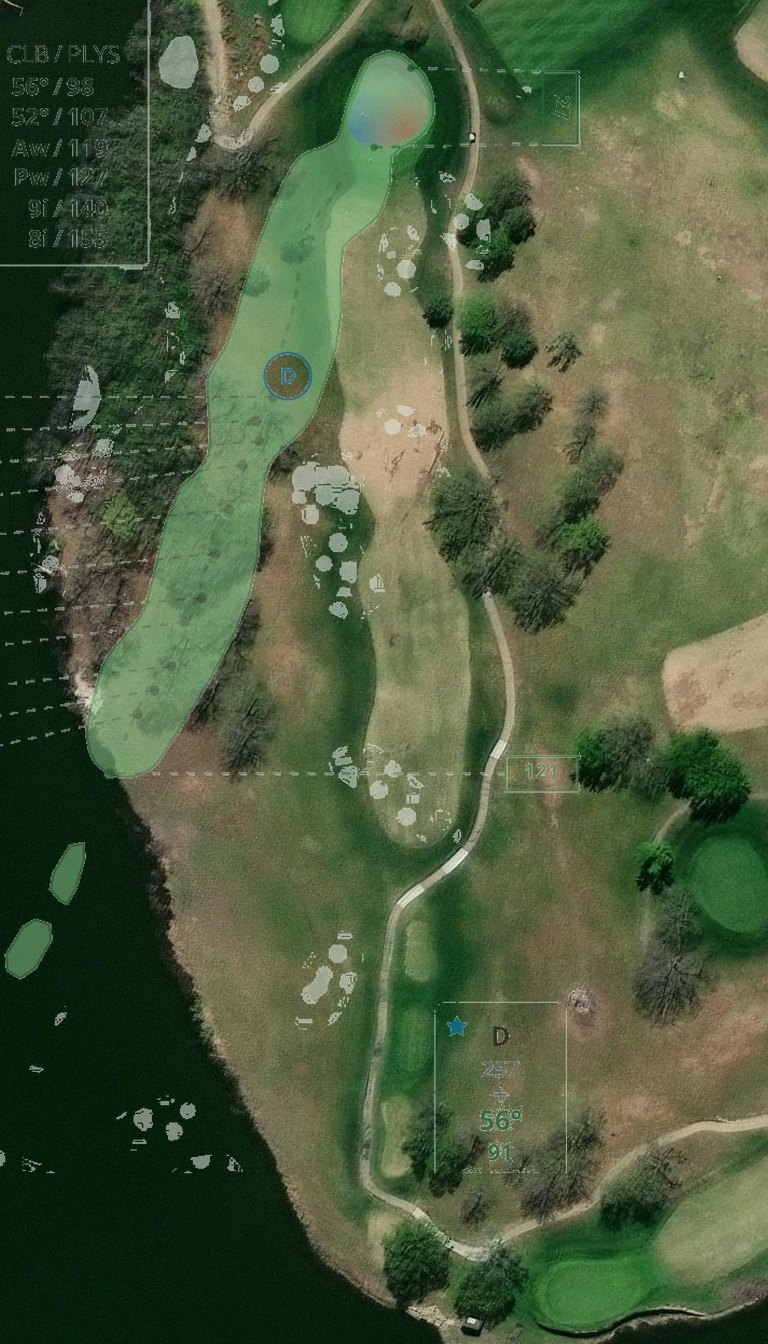
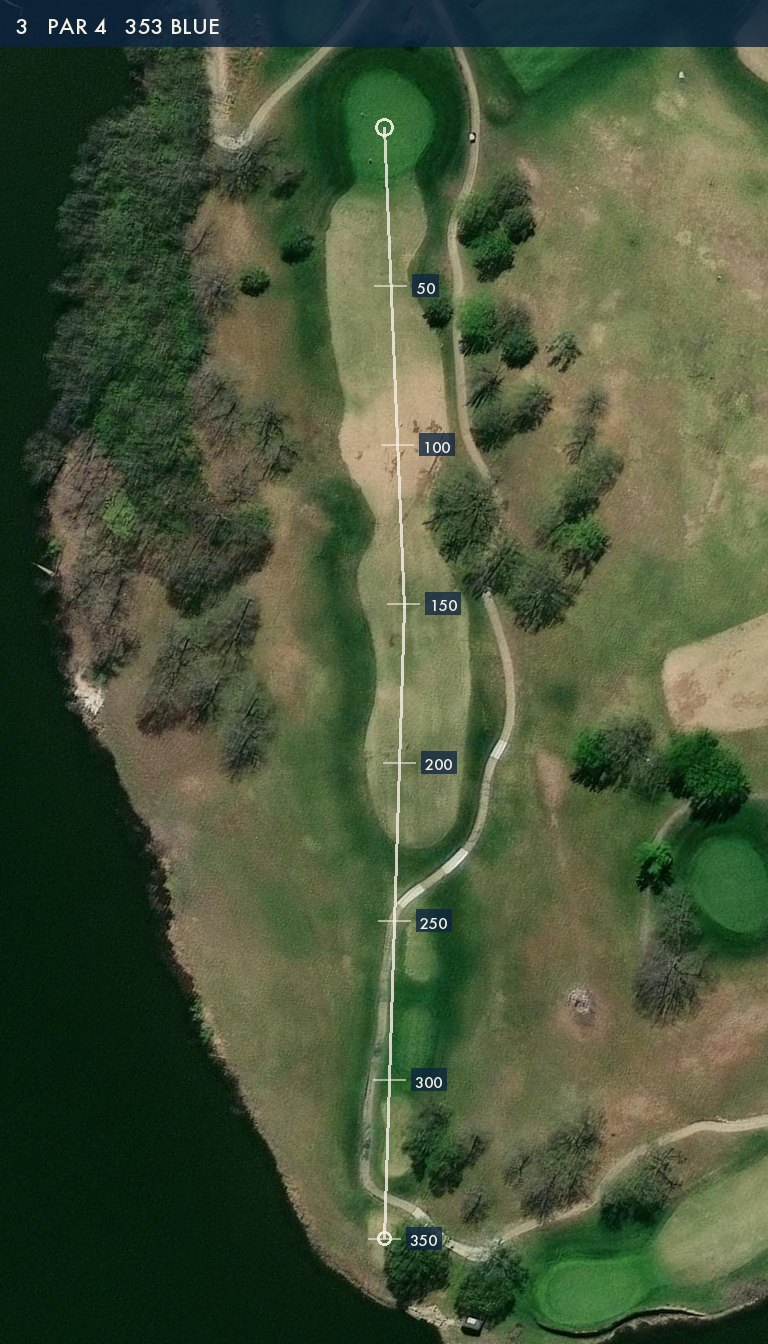
lake shawnee: GPS hole map on the Hole page; link b10

diff --git a/course/lake-shawnee/index.html b/course/lake-shawnee/index.html
@@ -1186,16 +1186,17 @@ function strategyFor(hh){
 
 function bookBlock(){
   const n = String(hole).padStart(2,"0");
-  /* Hole page: the PTC book over the GPS satellite, rendered as a clean portrait
-     page - play-direction up, imagery filling the frame, the book's chrome masked,
-     both layers sharing one orientation so nothing sits sideways. The imagery is
-     fetched per hole at zoom 19 - the provider's native ceiling, 0.23 m/px - framed
-     to that hole's own page corners, rather than sampled from one zoom-17 mosaic of
-     the whole course, which is what made the first version look soft. Tee and green are
-     pinned per hole to BlueGolf's surveyed coordinates. All 18 re-reviewed on this
-     renderer, including 15, whose earlier failure was the midpoint solve and not
-     the anchors. */
-  const SIDES = [["hole","Hole","h"],["green","Green","g"],["strategy","Strategy","s"]];
+  /* Hole page: a GPS hole map built from BlueGolf's surveyed tee, dogleg and green,
+     over per-hole satellite at zoom 19 (the provider's real detail ceiling here -
+     z20/z21 return upsampled tiles at 15% of the detail energy). Play-direction up,
+     yardage-to-green every 50 along the line of play.
+     The PTC-over-satellite overlay was abandoned on evidence: the PTC page is an
+     APPROACH diagram that starts near the 110 yard line and contains no tee, so it
+     cannot be registered to a tee-to-green frame at all. Earlier attempts anchored
+     scale and axis to "the farthest turf pixel from the green", a point that is not
+     the tee and does not exist on the page - which put all 18 ribbons 24-26 degrees
+     and 64-261 yards off. The PTC pages remain on the Green page where they belong. */
+  const SIDES = [["hole","Hole","o"],["green","Green","g"],["strategy","Strategy","s"]];
   const cur = SIDES.find(x=>x[0]===bookSide) || SIDES[0];
   const segs = SIDES.map(x=>`<button class="bookseg ${x[0]===bookSide?"on":""}" data-book="${x[0]}">${x[1]}</button>`).join("");
   return `<section class="book">

diff --git a/index.html b/index.html
@@ -410,7 +410,7 @@ body{background:var(--green-deep);font-family:var(--font-body);color:var(--cream
   var COURSES=[
     {name:'Any Course',sub:'Anywhere &middot; Basic or Advanced',slug:'round-tracker'},
     {name:'Charleston National Golf Club',loc:'Mount Pleasant, SC',par:72,slug:'charleston-national'},
-    {name:'Lake Shawnee Golf Course',loc:'Topeka, KS',par:70,slug:'lake-shawnee',v:'b9'}
+    {name:'Lake Shawnee Golf Course',loc:'Topeka, KS',par:70,slug:'lake-shawnee',v:'b10'}
   ];
 
   /* DISPLAY ORDER IS FIXED: the four shot categories, then Ball Strike as their
